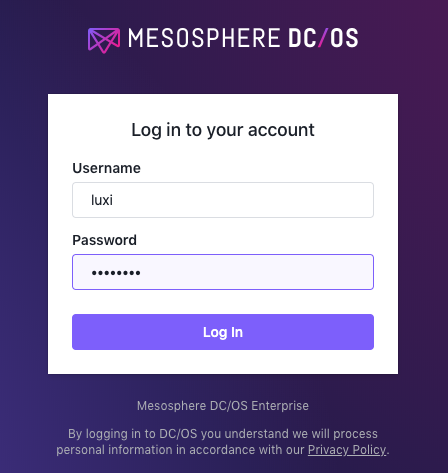
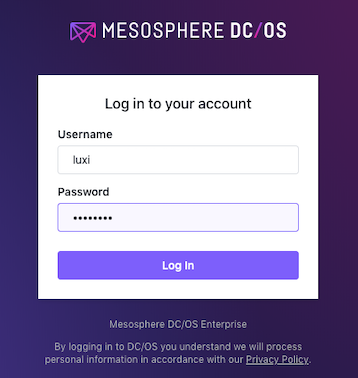
Resize login screenshot.

diff --git a/pages/1.13/tutorials/dcos-101/start-here/index.md b/pages/1.13/tutorials/dcos-101/start-here/index.md
@@ -230,7 +230,7 @@ In a production environment, you would automate these steps to create as many pr
 
     ![DC/OS dashboard in the administrative console](/1.13/img/sample-dashboard.png)
 
-Congratulations! You have successfully created your first DC/OS cluster, and can now start exploring what you can do here in subsequent tutorials.
+Congratulations! You have successfully created your first DC/OS cluster. You can now start exploring what you can do using this cluster in subsequent tutorials.
 
 # Next steps
 Now that you have a small cluster running, you can install the DC/OS command-line interface (CLI) and start exploring administrative and operational tasks.
